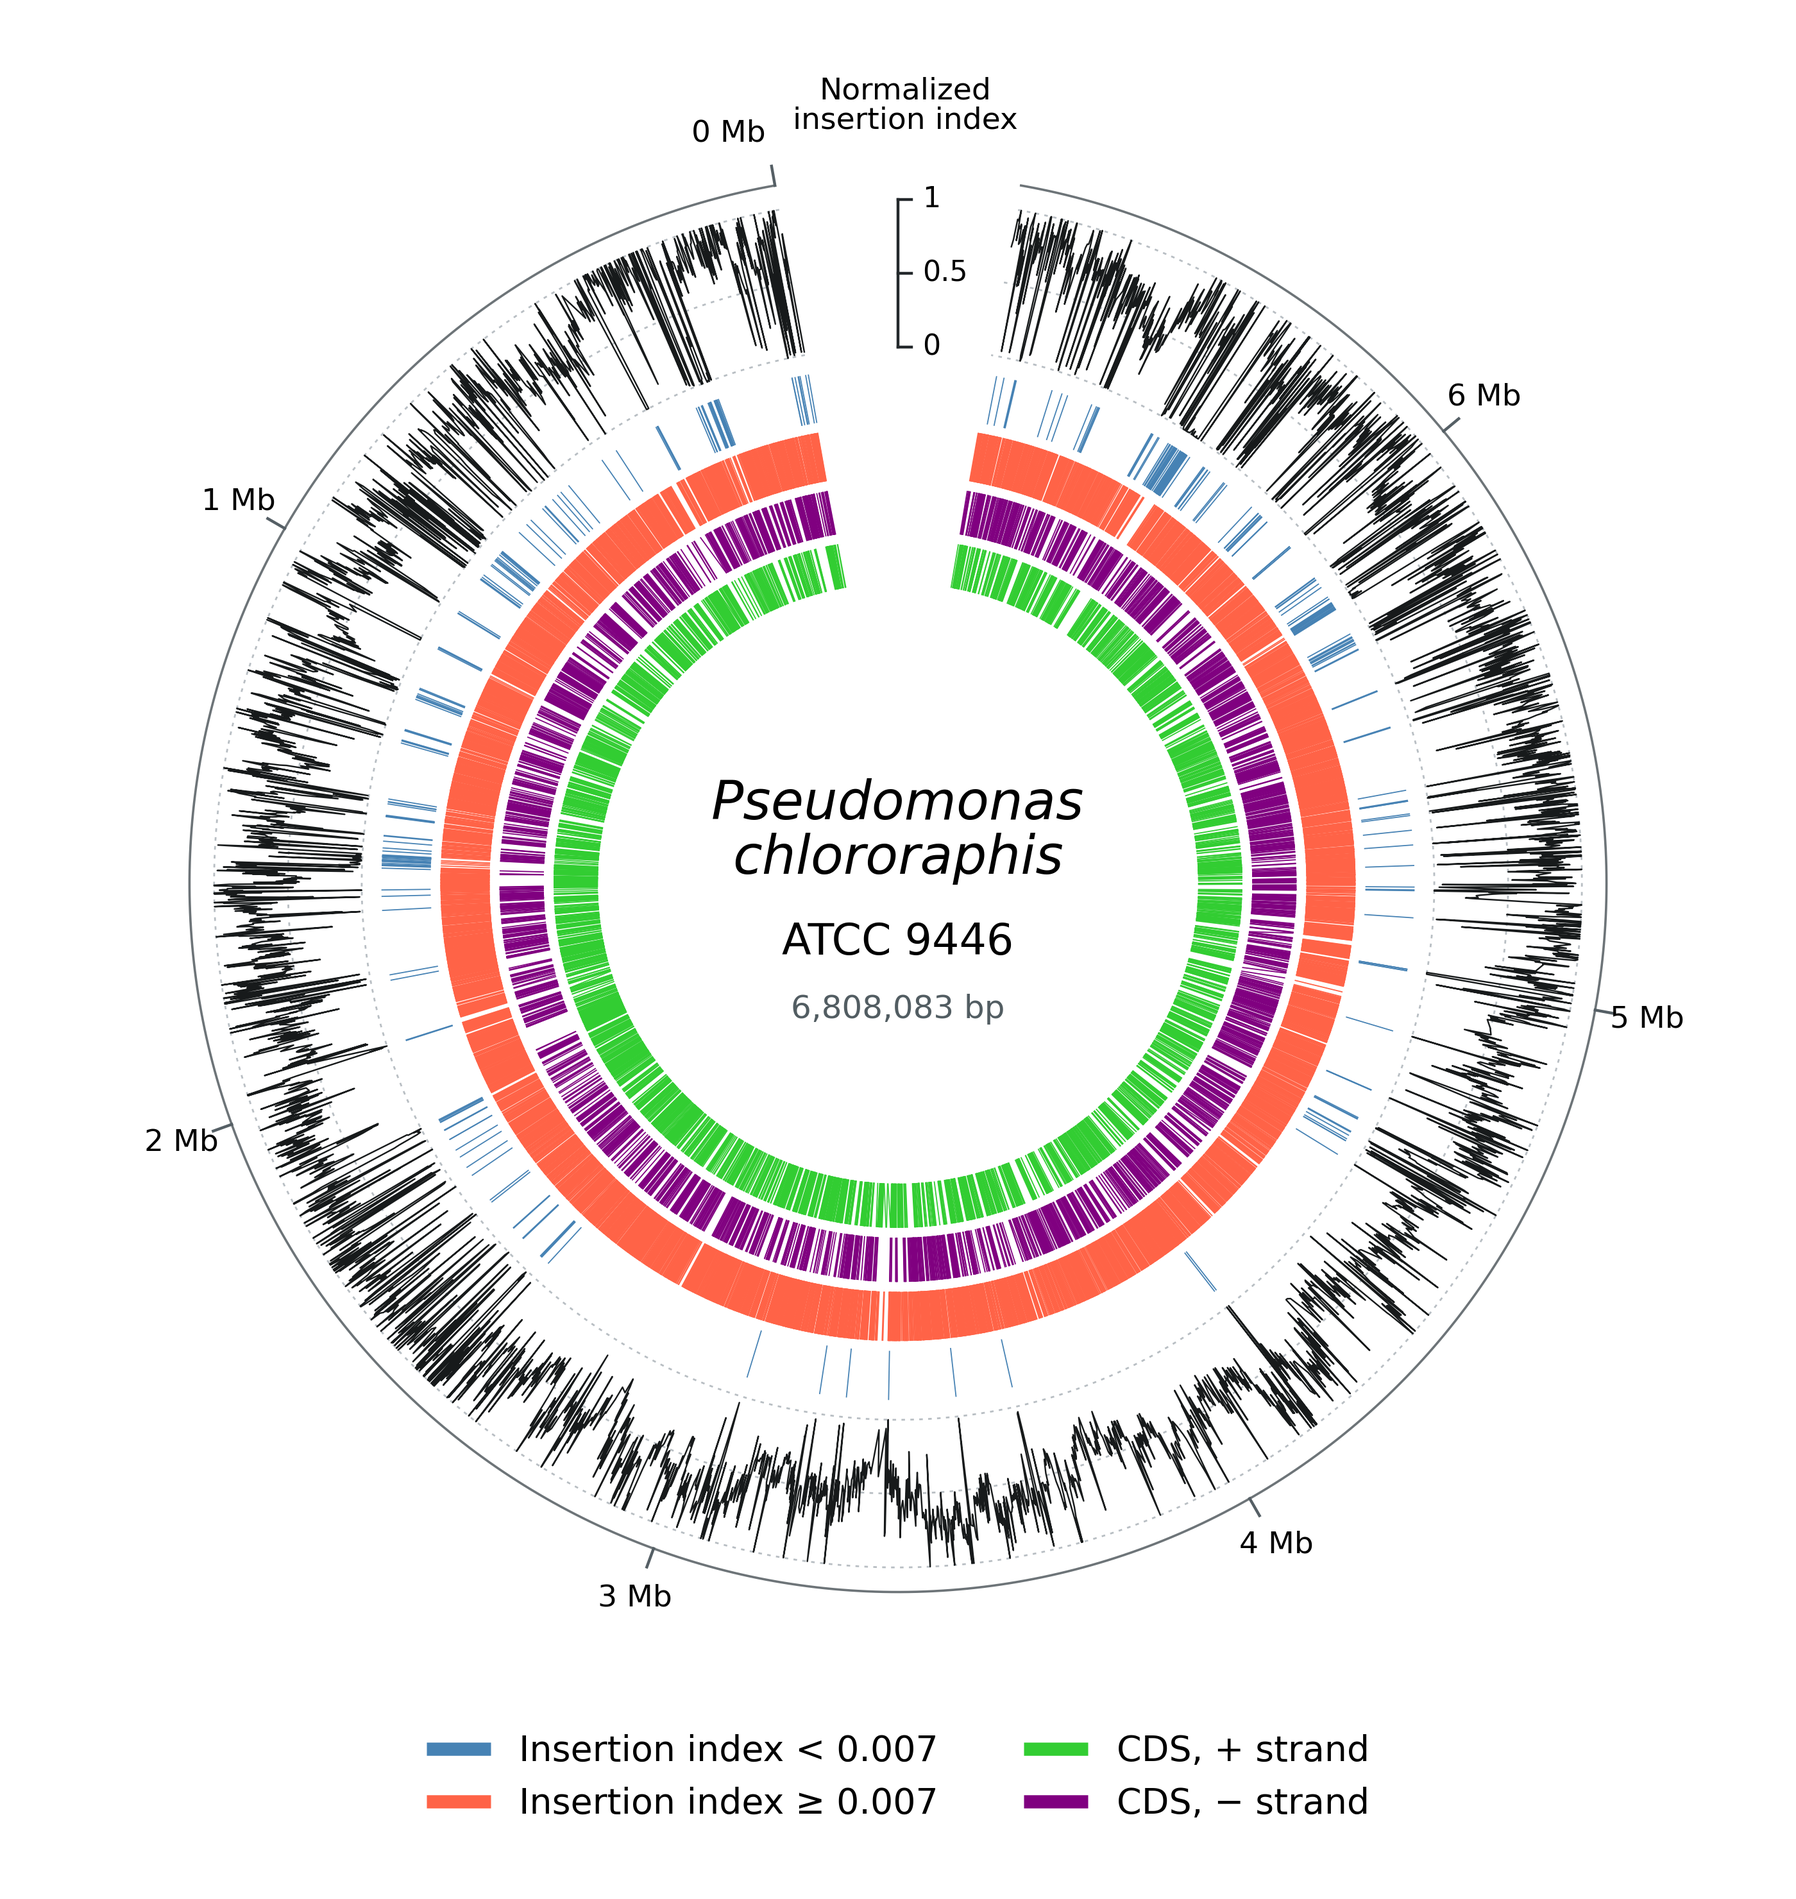
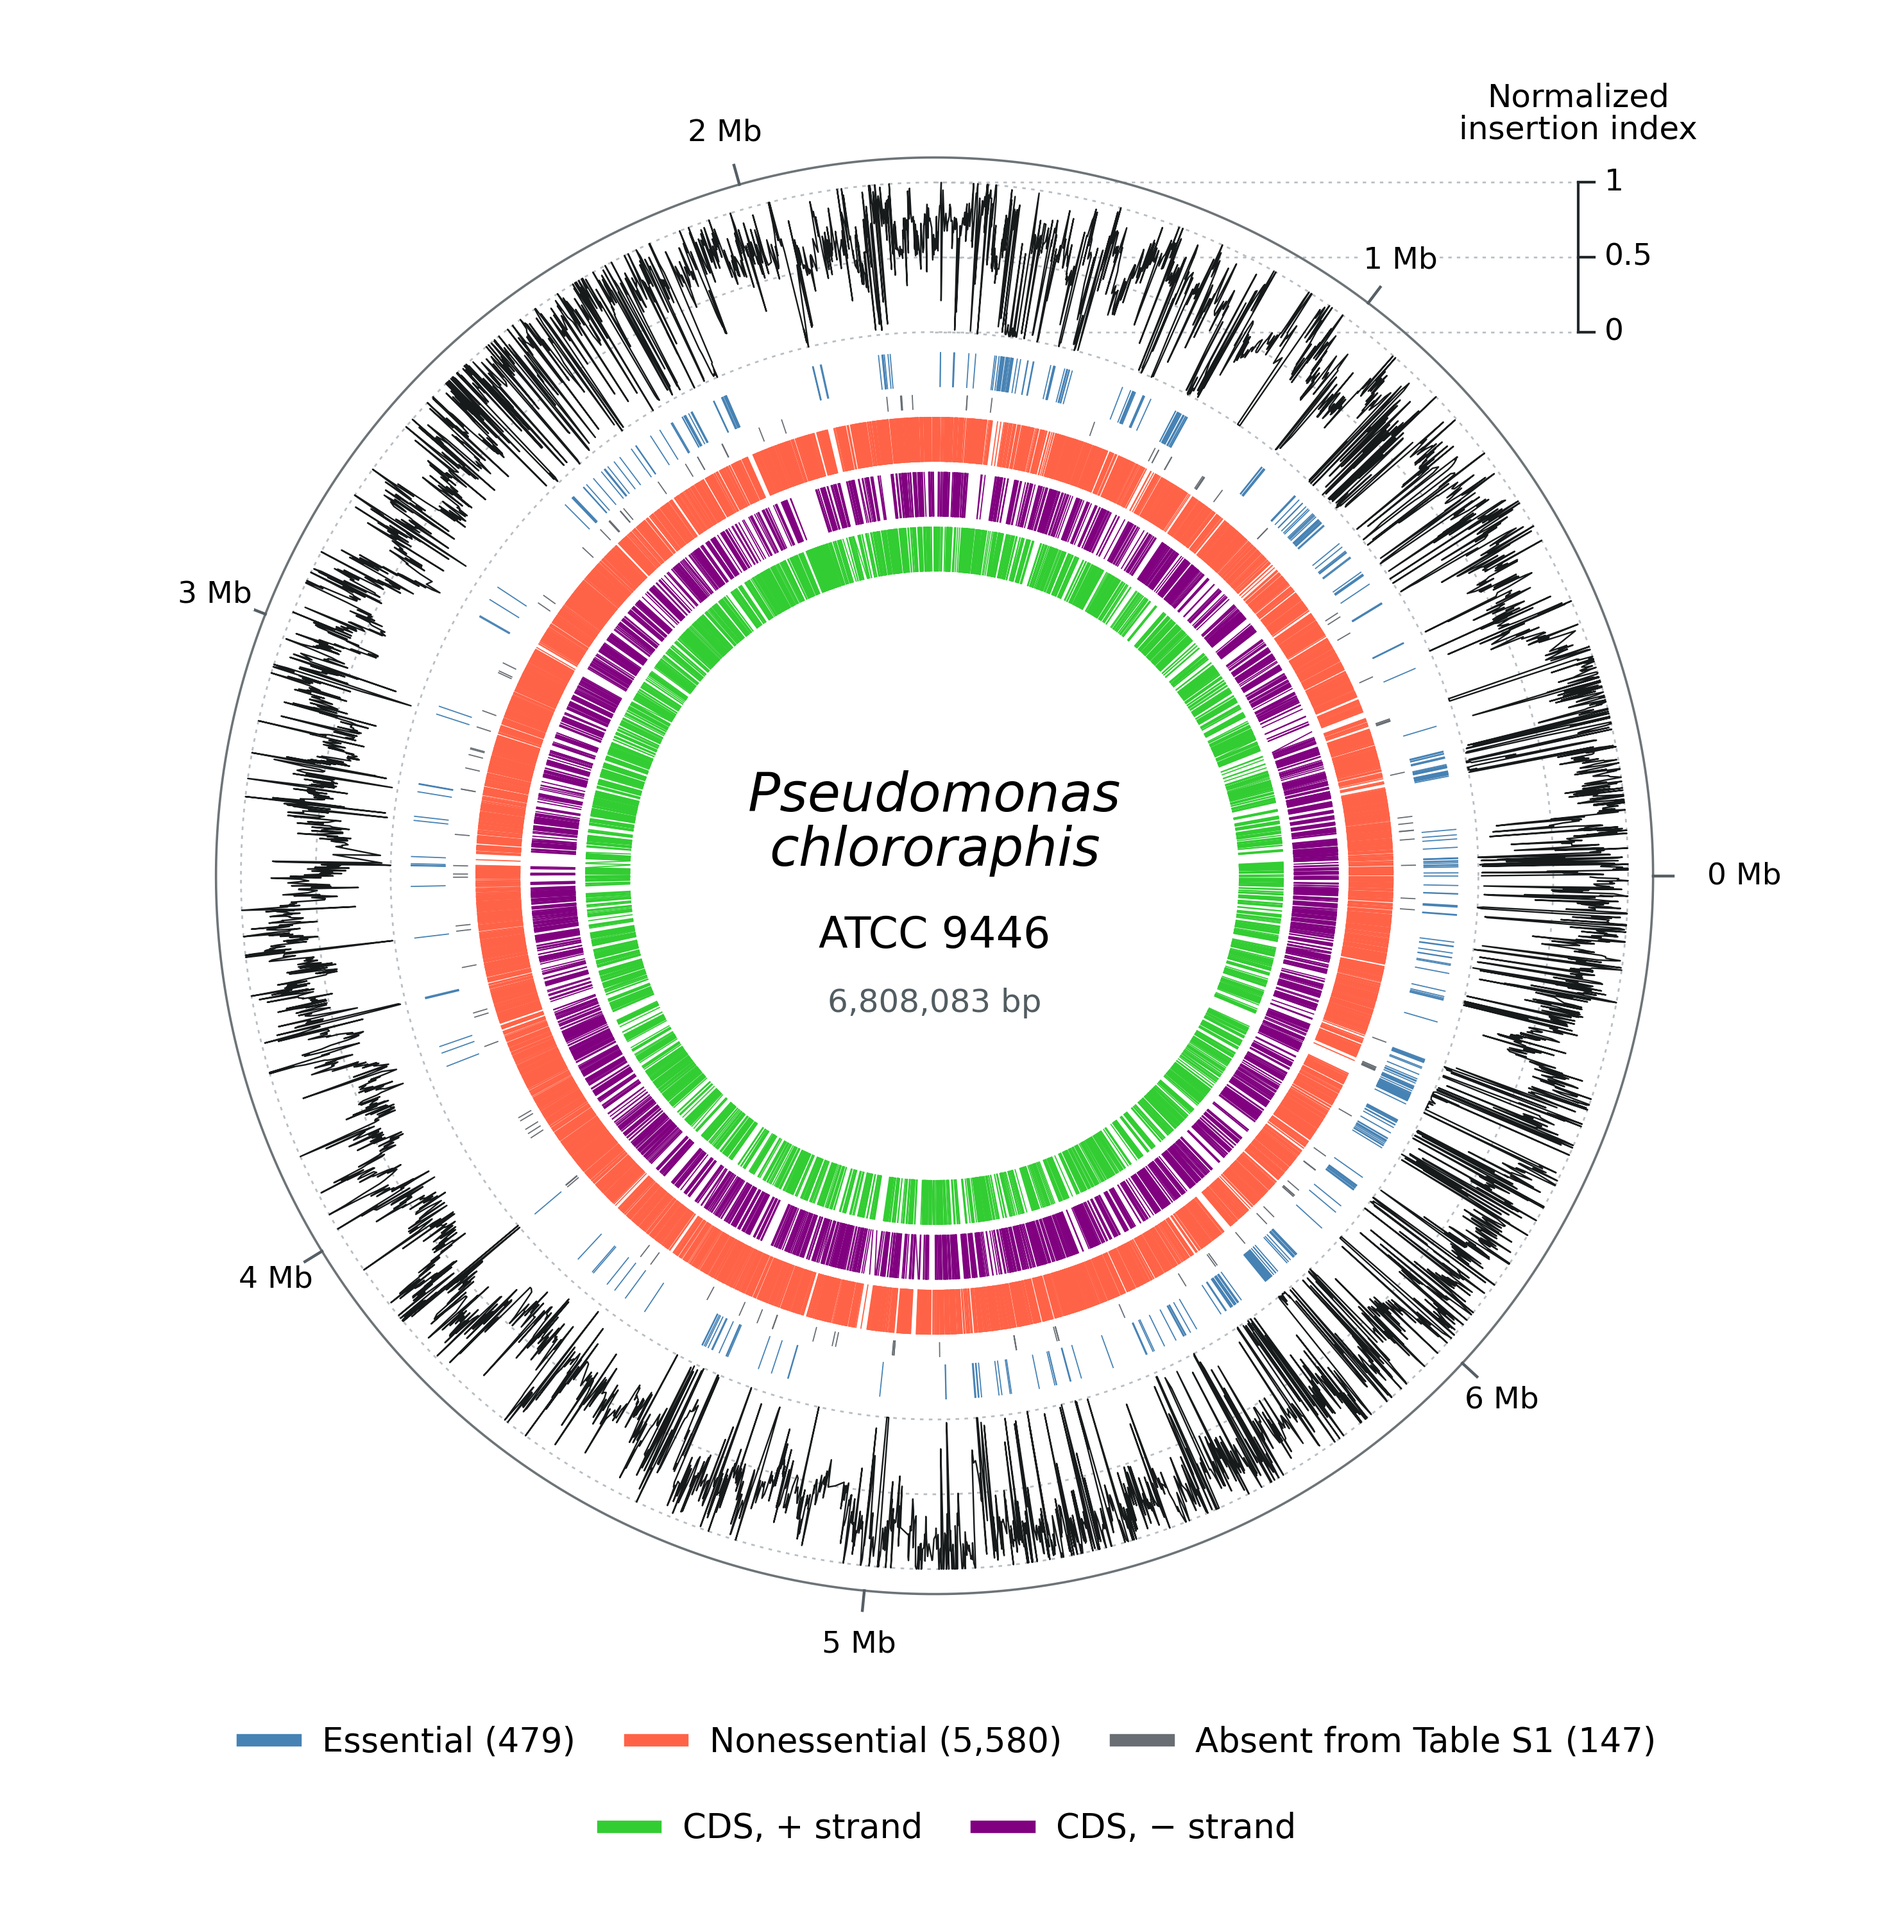
Restore full-circle genomic coordinates and show Table S1 assignments in Figure 1

diff --git a/figures/figure_1/plot_figure_1.py b/figures/figure_1/plot_figure_1.py
@@ -1,10 +1,11 @@
 """Render the Pc9446 genome map with the gene-level track from Mapping_tnseq.ipynb.
 
-Requires Python 3.10+, NumPy and Matplotlib. Example:
-    python plot_figure_1.py --sites <BioTraDIS gene export> --gff <Pc9446.gff3> --output Figure_1.png
+Requires Python 3.10+, NumPy, Matplotlib and openpyxl. Example:
+    python plot_figure_1.py --sites sites.tsv --gff Pc9446.gff3 --table-s1 supplement.xlsx --output Figure_1.png
 
-The sites file may be tab- or comma-delimited and must contain start and
-ins_index. The two index bands reproduce the original plot's 0.007 cutoff.
+The black trace uses the plotting export's insertion indices. The colored
+essentiality bands use the assignments recorded in the Table S1 worksheet.
+Records absent from that worksheet are drawn in a separate gray band.
 """
 import argparse
 import csv
@@ -16,33 +17,75 @@ import matplotlib.pyplot as plt
 from matplotlib.collections import LineCollection
 from matplotlib.lines import Line2D
 import numpy as np
+from openpyxl import load_workbook
 
 
-# Figure settings. Radii are in plot units. The origin gap holds the radial
-# tick labels; it is purely graphical and omits no genomic positions.
-GAP_DEGREES = 20
-INDEX_CUTOFF = 0.007
+# Track radii are in plot units, from the center outward.
 PERCENTILE = 95
 CDS_PLUS = (0.61, 0.70, "#32CD32")
 CDS_MINUS = (0.72, 0.81, "#800080")
-INDEX_HIGH = (0.83, 0.93, "#FF6347")
-INDEX_LOW = (0.95, 1.05, "#4682B4")
+CLASS_BANDS = {
+    "Essential": (0.98, 1.05, "#4682B4"),
+    "Non essential": (0.83, 0.92, "#FF6347"),
+    "No S1 entry": (0.935, 0.965, "#686E73"),
+}
 DENSITY_RADII = (1.09, 1.39)
 GENOME_RADIUS = 1.44
 
 
-def read_sites(path):
+def read_assignments(path):
+    workbook = load_workbook(path, read_only=True, data_only=True)
+    assignments = {}
+    try:
+        rows = iter(workbook["Table S1"].values)
+        next(rows)  # The first row is the table title.
+        headers = next(rows)
+        for values in rows:
+            if not any(value is not None for value in values):
+                continue
+            row = dict(zip(headers, values))
+            tag = row["Old Locus Tag"]
+            label = row["Essentiality"]
+            if not tag or tag in assignments or label not in ("Essential", "Non essential"):
+                raise ValueError(f"Invalid or duplicate Table S1 assignment for {tag!r}.")
+            coords = tuple(int(float(row[k])) for k in ("Gene start", "Gene end", "Strand"))
+            assignments[tag] = (coords, label)
+    finally:
+        workbook.close()
+    if not assignments:
+        raise ValueError("Table S1 contains no assignments.")
+    return assignments
+
+
+def read_sites(path, assignments):
+    seen = set()
+    features = []
     with path.open(encoding="utf-8-sig", newline="") as handle:
         first = handle.readline()
         handle.seek(0)
         rows = csv.DictReader(handle, delimiter="\t" if "\t" in first else ",")
-        features = sorted((int(row["start"]), float(row["ins_index"])) for row in rows)
+        for row in rows:
+            tag = row["locus_tag"]
+            if not tag or tag in seen:
+                raise ValueError(f"Invalid or duplicate locus tag in plotting export: {tag!r}.")
+            seen.add(tag)
+            coords = tuple(int(row[k]) for k in ("start", "end", "strand"))
+            label = "No S1 entry"
+            if tag in assignments:
+                expected, label = assignments[tag]
+                if coords != expected:
+                    raise ValueError(f"Genomic coordinates or strand disagree for {tag}.")
+            features.append((coords[0], float(row["ins_index"]), label))
     if not features:
         raise ValueError("The sites file contains no features.")
-    starts, indices = np.asarray(features, dtype=float).T
+    missing = assignments.keys() - seen
+    if missing:
+        raise ValueError(f"{len(missing)} Table S1 loci are missing from the plotting export.")
+    features.sort(key=lambda entry: entry[0])
+    starts, indices, labels = map(np.asarray, zip(*features))
     if not np.all(np.isfinite(indices)) or np.any(indices < 0):
         raise ValueError("Insertion indices must be finite and nonnegative.")
-    return starts, indices
+    return starts, indices, labels
 
 
 def read_annotation(path):
@@ -72,8 +115,7 @@ def read_annotation(path):
 
 
 def angle(position, length):
-    fraction = np.asarray(position, dtype=float) / length
-    return np.deg2rad(90 + GAP_DEGREES / 2 + (360 - GAP_DEGREES) * fraction)
+    return 2 * np.pi * np.asarray(position, dtype=float) / length
 
 
 def xy(theta, radius):
@@ -86,8 +128,8 @@ def draw_band(ax, start_angle, end_angle, band):
     ax.add_collection(LineCollection(segments, linewidths=0.32, colors=color, zorder=2))
 
 
-def plot_map(sites, gff, output):
-    starts, indices = read_sites(sites)
+def plot_map(sites, gff, table_s1, output):
+    starts, indices, labels = read_sites(sites, read_assignments(table_s1))
     length, cds = read_annotation(gff)
     if np.any((starts < 1) | (starts > length)):
         raise ValueError("Feature coordinates fall outside the chromosome.")
@@ -96,48 +138,53 @@ def plot_map(sites, gff, output):
         raise ValueError("The normalization percentile must be positive.")
     normalized = np.minimum(indices, cap) / cap
     theta = angle(starts, length)
-    fig, ax = plt.subplots(figsize=(7, 7.4))
-    fig.subplots_adjust(left=0.045, right=0.955, top=0.965, bottom=0.115)
-    ax.set(aspect="equal", xlim=(-1.64, 1.64), ylim=(-1.62, 1.66))
+    fig, ax = plt.subplots(figsize=(7.4, 7.5))
+    fig.subplots_adjust(left=0.035, right=0.965, top=0.97, bottom=0.13)
+    ax.set(aspect="equal", xlim=(-1.68, 1.74), ylim=(-1.60, 1.64))
     ax.axis("off")
     outline = np.linspace(angle(0, length), angle(length, length), 1000)
     low, high = DENSITY_RADII
+    # Extend each guide horizontally from its top tangent. The keys are
+    # physically aligned with the three radii, outside the chromosome.
+    key_x = 1.29
     for level in (0, 0.5, 1):
         r = low + level * (high - low)
         ax.plot(*xy(outline, r).T, color="#B8BEC3", lw=0.5, ls=(0, (2, 3)), zorder=0)
-        ax.plot([0, 0.027], [r, r], color="#23282B", lw=0.8)
-        ax.text(0.05, r, f"{level:g}", va="center", fontsize=8)
-    ax.plot([0, 0], [low, high], color="#23282B", lw=0.8)
-    ax.text(0.015, high + 0.13, "Normalized\ninsertion index", ha="center", va="bottom",
-            fontsize=8.5, linespacing=1.05)
+        ax.plot([0, key_x], [r, r], color="#B8BEC3", lw=0.48, ls=(0, (2, 3)), zorder=0)
+        ax.plot([key_x, key_x + 0.032], [r, r], color="#23282B", lw=0.75)
+        ax.text(key_x + 0.052, r, f"{level:g}", va="center", fontsize=8.5)
+    ax.plot([key_x, key_x], [low, high], color="#23282B", lw=0.75)
+    ax.text(key_x, high + 0.075, "Normalized\ninsertion index", ha="center", va="bottom",
+            fontsize=9, linespacing=1.05)
     ax.plot(*xy(theta, low + normalized * (high-low)).T, lw=0.43, color="#171A1B", zorder=3)
     for strand, band in [("+", CDS_PLUS), ("-", CDS_MINUS)]:
         begin, end = np.asarray(cds[strand]).T
         draw_band(ax, angle(begin, length), angle(end, length), band)
-    below = indices < INDEX_CUTOFF
-    draw_band(ax, theta[~below], theta[~below], INDEX_HIGH)
-    draw_band(ax, theta[below], theta[below], INDEX_LOW)
+    for label, band in CLASS_BANDS.items():
+        positions = theta[labels == label]
+        draw_band(ax, positions, positions, band)
     ax.plot(*xy(outline, GENOME_RADIUS).T, color="#6D7478", lw=0.65)
     for pos in range(0, length, 1_000_000):
         a = angle(pos, length)
         ax.plot(*xy(a, np.array([GENOME_RADIUS, GENOME_RADIUS+0.04])).T, color="#555F65", lw=0.8)
         x, y = xy(a, GENOME_RADIUS+0.108)[0]
-        ax.text(x, y, f"{pos//1_000_000} Mb", ha="right" if pos == 0 else "center",
-                va="center", fontsize=8.5)
+        ax.text(x, y, f"{pos//1_000_000} Mb", ha="left" if pos == 0 else "center",
+                va="center", fontsize=8.5, bbox={"facecolor": "white", "edgecolor": "none", "pad": 0.4})
     ax.text(0, 0.105, "Pseudomonas\nchlororaphis", ha="center", va="center",
             fontsize=15, fontstyle="italic", linespacing=1.06)
     ax.text(0, -0.12, "ATCC 9446", ha="center", va="center", fontsize=12)
     ax.text(0, -0.255, f"{length:,} bp", ha="center", va="center", fontsize=9, color="#525D62")
-    bands = [
-        (INDEX_LOW, f"Insertion index < {INDEX_CUTOFF:g}"),
-        (INDEX_HIGH, f"Insertion index ≥ {INDEX_CUTOFF:g}"),
-        (CDS_PLUS, "CDS, + strand"),
-        (CDS_MINUS, "CDS, − strand"),
-    ]
-    handles = [Line2D([0], [0], label=label, color=band[2], lw=3.7, solid_capstyle="butt")
-               for band, label in bands]
-    fig.legend(handles=handles, loc="lower center", bbox_to_anchor=(0.5, 0.024),
-               ncol=2, frameon=False, fontsize=10, columnspacing=2.4, handlelength=1.8)
+    class_handles = []
+    for label, band in CLASS_BANDS.items():
+        count = np.count_nonzero(labels == label)
+        display = {"Essential": "Essential", "Non essential": "Nonessential",
+                   "No S1 entry": "Absent from Table S1"}[label]
+        class_handles.append(Line2D([], [], label=f"{display} ({count:,})", color=band[2], lw=3.5))
+    strand_handles = [Line2D([], [], label=name, color=band[2], lw=3.5)
+                      for name, band in [("CDS, + strand", CDS_PLUS), ("CDS, − strand", CDS_MINUS)]]
+    for handles, height in [(class_handles, 0.070), (strand_handles, 0.025)]:
+        fig.legend(handles=handles, loc="lower center", bbox_to_anchor=(0.5, height),
+                   ncol=len(handles), frameon=False, fontsize=9.5, columnspacing=1.6, handlelength=1.55)
     fig.savefig(output, dpi=400, facecolor="white")
     plt.close(fig)
 
@@ -146,7 +193,8 @@ if __name__ == "__main__":
     parser = argparse.ArgumentParser(description="Plot the Pc9446 genome map.")
     parser.add_argument("--sites", type=Path, required=True, help="BioTraDIS gene-level export")
     parser.add_argument("--gff", type=Path, required=True, help="Pc9446 GFF3 annotation")
+    parser.add_argument("--table-s1", type=Path, required=True, help="Workbook with the Table S1 assignments")
     parser.add_argument("--output", type=Path, default=Path("Figure_1.png"))
     args = parser.parse_args()
-    plot_map(args.sites, args.gff, args.output)
+    plot_map(args.sites, args.gff, args.table_s1, args.output)
 
